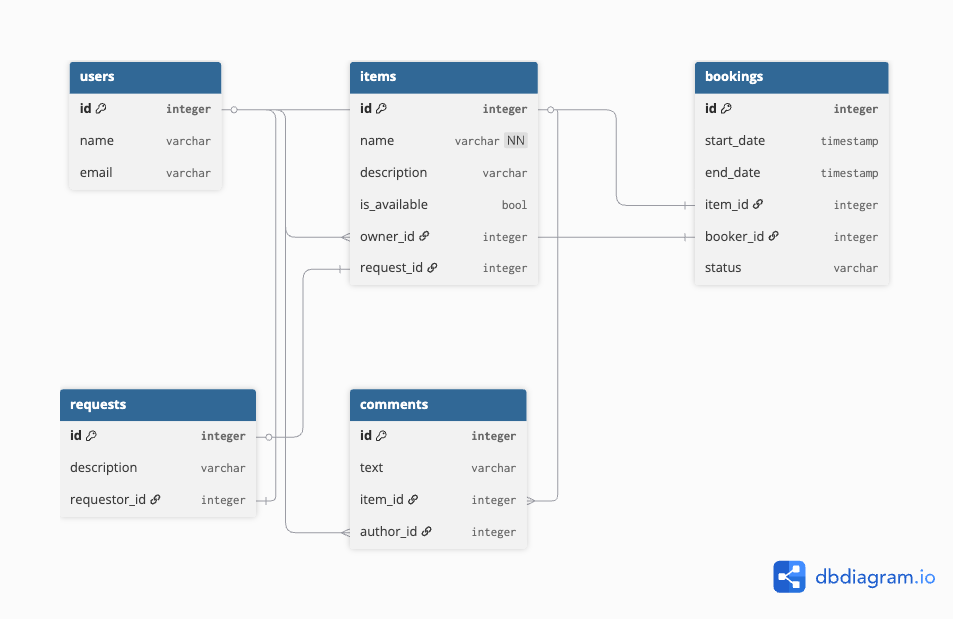
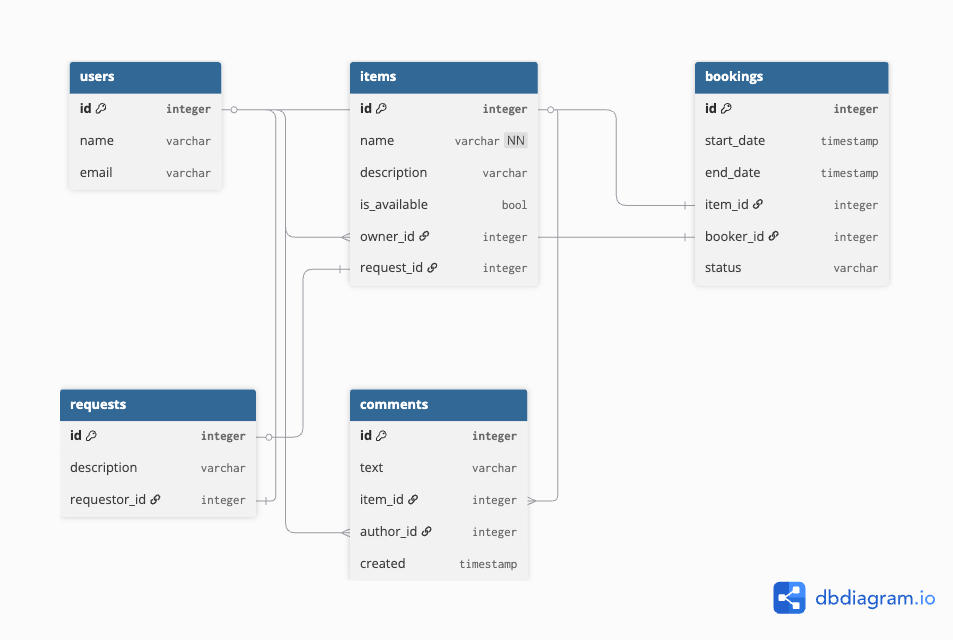
add-bookings Add comments

diff --git a/src/main/java/ru/practicum/shareit/item/service/ItemServiceImpl.java b/src/main/java/ru/practicum/shareit/item/service/ItemServiceImpl.java
@@ -3,15 +3,23 @@ package ru.practicum.shareit.item.service;
 import lombok.RequiredArgsConstructor;
 import org.springframework.beans.factory.annotation.Qualifier;
 import org.springframework.stereotype.Service;
+import ru.practicum.shareit.booking.model.Booking;
+import ru.practicum.shareit.booking.repository.BookingRepository;
 import ru.practicum.shareit.exception.NotFoundException;
 import ru.practicum.shareit.exception.ValidationException;
+import ru.practicum.shareit.item.dto.CommentDto;
+import ru.practicum.shareit.item.dto.ExtendedItemDto;
 import ru.practicum.shareit.item.dto.ItemDto;
+import ru.practicum.shareit.item.mapper.CommentMapper;
 import ru.practicum.shareit.item.mapper.ItemMapper;
+import ru.practicum.shareit.item.model.Comment;
 import ru.practicum.shareit.item.model.Item;
+import ru.practicum.shareit.item.repository.CommentRepository;
 import ru.practicum.shareit.item.repository.ItemRepository;
 import ru.practicum.shareit.user.model.User;
 import ru.practicum.shareit.user.repository.UserRepository;
 
+import java.time.LocalDateTime;
 import java.util.ArrayList;
 import java.util.Collection;
 import java.util.stream.Collectors;
@@ -22,10 +30,27 @@ import java.util.stream.Collectors;
 public class ItemServiceImpl implements ItemService {
     private final ItemRepository itemRepository;
     private final UserRepository userRepository;
+    private final CommentRepository commentRepository;
+    private final BookingRepository bookingRepository;
 
-    public ItemDto getItem(Integer id) {
+    public ExtendedItemDto getItem(Integer id) {
         Item item = itemRepository.findById(id).orElseThrow(() -> new NotFoundException("Item not found"));
-        return ItemMapper.mapToItemDto(item);
+        ExtendedItemDto itemDto = ItemMapper.mapToExtendedItemDto(item);
+
+        Collection<Booking> itemBookings = bookingRepository.getItemBookings(id);
+        LocalDateTime now = LocalDateTime.now();
+
+        Booking lastBooking = itemBookings.stream().filter(b -> b.getStart().isBefore(now)).findFirst().orElse(null);
+        Booking nextBooking = itemBookings.stream().filter(b -> b.getEnd().isAfter(now)).findFirst().orElse(null);
+
+        itemDto.setLastBooking(lastBooking);
+        itemDto.setNextBooking(nextBooking);
+
+        Collection<Comment> comments = commentRepository.getItemComments(id);
+
+        itemDto.setComments(comments.stream().map(CommentMapper::mapToCommentDto).toList());
+
+        return itemDto;
     }
 
     public ItemDto addItem(Integer userId, ItemDto itemDto) {
@@ -72,14 +97,29 @@ public class ItemServiceImpl implements ItemService {
         return ItemMapper.mapToItemDto(itemRepository.save(existingItem));
     }
 
-    public Collection<ItemDto> getItems(Integer userId) {
+    public Collection<ExtendedItemDto> getItems(Integer userId) {
         if (userId == null) {
             throw new IllegalArgumentException("Параметр userId не может быть null");
         }
 
         userRepository.findById(userId).orElseThrow(() -> new NotFoundException("User not found"));
 
-        return itemRepository.findAll().stream().map(ItemMapper::mapToItemDto).collect(Collectors.toList());
+        Collection<ExtendedItemDto> items = itemRepository.findAll().stream().map(ItemMapper::mapToExtendedItemDto).collect(Collectors.toList());
+
+        for (ExtendedItemDto itemDto : items) {
+            Integer itemId = itemDto.getId();
+
+            Collection<Booking> itemBookings = bookingRepository.getItemBookings(itemId);
+            LocalDateTime now = LocalDateTime.now();
+
+            Booking lastBooking = itemBookings.stream().filter(b -> b.getStart().isBefore(now)).findFirst().orElse(null);
+            Booking nextBooking = itemBookings.stream().filter(b -> b.getEnd().isAfter(now)).findFirst().orElse(null);
+
+            itemDto.setLastBooking(lastBooking);
+            itemDto.setNextBooking(nextBooking);
+        }
+
+        return items;
     }
 
     public Collection<ItemDto> searchItems(String text) {
@@ -89,5 +129,25 @@ public class ItemServiceImpl implements ItemService {
 
         return itemRepository.searchItems(text).stream().map(ItemMapper::mapToItemDto)
                 .filter(item -> (item.getName().toLowerCase().contains(text.toLowerCase()) || item.getDescription().toLowerCase().contains(text.toLowerCase())) && item.getAvailable()).collect(Collectors.toList());
+    }
+
+    public CommentDto addComment(Integer id, Integer userId, CommentDto commentDto) {
+        LocalDateTime now = LocalDateTime.now();
+
+        Item item = itemRepository.findById(id).orElseThrow(() -> new NotFoundException("Item not found"));
+        User author = userRepository.findById(userId).orElseThrow(() -> new NotFoundException("User not found"));
+        Collection<Booking> itemBookingsFromUser = bookingRepository.getItemBookings(item.getId()).stream().filter(booking -> booking.getBooker().getId() == userId && booking.getEnd().isBefore(now)).collect(Collectors.toList());
+
+        if (itemBookingsFromUser.isEmpty()) {
+            throw new ValidationException("Comment from not an item owner");
+        }
+
+        commentDto.setItem(item);
+        commentDto.setAuthor(author);
+        commentDto.setCreated(now);
+
+        Comment comment = commentRepository.save(CommentMapper.mapToComment(commentDto));
+
+        return CommentMapper.mapToCommentDto(comment);
     }
 }

diff --git a/src/main/java/ru/practicum/shareit/item/ItemController.java b/src/main/java/ru/practicum/shareit/item/ItemController.java
@@ -2,6 +2,8 @@ package ru.practicum.shareit.item;
 
 import lombok.RequiredArgsConstructor;
 import org.springframework.web.bind.annotation.*;
+import ru.practicum.shareit.item.dto.CommentDto;
+import ru.practicum.shareit.item.dto.ExtendedItemDto;
 import ru.practicum.shareit.item.dto.ItemDto;
 import ru.practicum.shareit.item.service.ItemService;
 import java.util.Collection;
@@ -16,7 +18,7 @@ public class ItemController {
     private final ItemService itemService;
 
     @GetMapping("/{id}")
-    public ItemDto getItem(@PathVariable Integer id) {
+    public ExtendedItemDto getItem(@PathVariable Integer id) {
         return itemService.getItem(id);
     }
 
@@ -31,12 +33,17 @@ public class ItemController {
     }
 
     @GetMapping
-    public Collection<ItemDto> getItems(@RequestHeader("X-Sharer-User-Id") Integer userId) {
+    public Collection<ExtendedItemDto> getItems(@RequestHeader("X-Sharer-User-Id") Integer userId) {
         return itemService.getItems(userId);
     }
 
     @GetMapping("/search")
     public Collection<ItemDto> searchItems(@RequestParam("text") String text) {
         return itemService.searchItems(text);
+    }
+
+    @PostMapping("/{id}/comment")
+    public CommentDto addComment(@PathVariable Integer id, @RequestHeader("X-Sharer-User-Id") Integer userId, @RequestBody CommentDto commentDto) {
+        return itemService.addComment(id, userId, commentDto);
     }
 }

diff --git a/src/main/java/ru/practicum/shareit/item/mapper/CommentMapper.java b/src/main/java/ru/practicum/shareit/item/mapper/CommentMapper.java
@@ -1,0 +1,31 @@
+package ru.practicum.shareit.item.mapper;
+
+import ru.practicum.shareit.item.dto.CommentDto;
+import ru.practicum.shareit.item.model.Comment;
+
+public class CommentMapper {
+    public static Comment mapToComment(CommentDto commentDto) {
+        Comment comment = new Comment();
+
+        comment.setId(commentDto.getId());
+        comment.setText(commentDto.getText());
+        comment.setAuthor(commentDto.getAuthor());
+        comment.setItem(commentDto.getItem());
+        comment.setCreated(commentDto.getCreated());
+
+        return comment;
+    }
+
+    public static CommentDto mapToCommentDto(Comment comment) {
+        CommentDto commentDto = new CommentDto();
+
+        commentDto.setId(comment.getId());
+        commentDto.setText(comment.getText());
+        commentDto.setAuthor(comment.getAuthor());
+        commentDto.setItem(comment.getItem());
+        commentDto.setCreated(comment.getCreated());
+        commentDto.setAuthorName(comment.getAuthor().getName());
+
+        return commentDto;
+    }
+}

diff --git a/src/main/java/ru/practicum/shareit/item/repository/ItemRepository.java b/src/main/java/ru/practicum/shareit/item/repository/ItemRepository.java
@@ -1,9 +1,12 @@
 package ru.practicum.shareit.item.repository;
 
 import org.springframework.data.jpa.repository.JpaRepository;
+import org.springframework.data.jpa.repository.Modifying;
 import org.springframework.data.jpa.repository.Query;
+
 import ru.practicum.shareit.item.model.Item;
 
+import java.time.LocalDateTime;
 import java.util.Collection;
 
 public interface ItemRepository  extends JpaRepository<Item, Integer> {
@@ -11,4 +14,8 @@ public interface ItemRepository  extends JpaRepository<Item, Integer> {
             "where upper(i.name) like upper(concat('%', ?1, '%')) " +
             " or upper(i.description) like upper(concat('%', ?1, '%'))")
     Collection<Item> searchItems(String text);
+
+    @Modifying
+    @Query(value = "insert into comments (text, item_id, author_id, created) values(?1, ?2, ?3, ?4)", nativeQuery = true)
+    void addComment(String text, int itemId, int authorId, LocalDateTime created);
 }

diff --git a/src/main/java/ru/practicum/shareit/item/mapper/ItemMapper.java b/src/main/java/ru/practicum/shareit/item/mapper/ItemMapper.java
@@ -1,5 +1,6 @@
 package ru.practicum.shareit.item.mapper;
 
+import ru.practicum.shareit.item.dto.ExtendedItemDto;
 import ru.practicum.shareit.item.dto.ItemDto;
 import ru.practicum.shareit.item.model.Item;
 
@@ -11,6 +12,19 @@ public class ItemMapper {
         itemDto.setDescription(item.getDescription());
         itemDto.setAvailable(item.getAvailable());
         itemDto.setOwner(item.getOwner());
+
+        return itemDto;
+    }
+
+    public static ExtendedItemDto mapToExtendedItemDto(Item item) {
+        ExtendedItemDto itemDto = new ExtendedItemDto();
+        itemDto.setId(item.getId());
+        itemDto.setName(item.getName());
+        itemDto.setDescription(item.getDescription());
+        itemDto.setAvailable(item.getAvailable());
+        itemDto.setOwner(item.getOwner());
+        itemDto.setLastBooking(null);
+        itemDto.setNextBooking(null);
 
         return itemDto;
     }

diff --git a/src/main/java/ru/practicum/shareit/item/service/ItemService.java b/src/main/java/ru/practicum/shareit/item/service/ItemService.java
@@ -1,17 +1,21 @@
 package ru.practicum.shareit.item.service;
 
+import ru.practicum.shareit.item.dto.CommentDto;
+import ru.practicum.shareit.item.dto.ExtendedItemDto;
 import ru.practicum.shareit.item.dto.ItemDto;
 
 import java.util.Collection;
 
 public interface ItemService {
-    ItemDto getItem(Integer id);
+    ExtendedItemDto getItem(Integer id);
 
     ItemDto addItem(Integer userId, ItemDto itemDto);
 
     ItemDto updateItem(Integer id, Integer userId, ItemDto itemDto);
 
-    Collection<ItemDto> getItems(Integer userId);
+    Collection<ExtendedItemDto> getItems(Integer userId);
 
     Collection<ItemDto> searchItems(String text);
+
+    CommentDto addComment(Integer id, Integer userId, CommentDto commentDto);
 }

diff --git a/src/main/java/ru/practicum/shareit/item/model/Comment.java b/src/main/java/ru/practicum/shareit/item/model/Comment.java
@@ -2,6 +2,8 @@ package ru.practicum.shareit.item.model;
 
 import jakarta.persistence.*;
 import lombok.Data;
+import ru.practicum.shareit.user.model.User;
+import java.time.LocalDateTime;
 
 @Data
 @Entity
@@ -12,8 +14,13 @@ public class Comment {
     Integer id;
     @Column(name = "text", nullable = false)
     String text;
-    @Column(name = "item_id", nullable = false)
-    Integer itemId;
-    @Column(name = "author_id", nullable = false)
-    Integer authorId;
+    @Column(name = "created", nullable = false)
+    LocalDateTime created;
+    @ManyToOne
+    @JoinColumn(name = "item_id")
+    Item item;
+    @ManyToOne
+    @JoinColumn(name = "author_id")
+    User author;
+
 }

diff --git a/src/main/java/ru/practicum/shareit/booking/repository/BookingRepository.java b/src/main/java/ru/practicum/shareit/booking/repository/BookingRepository.java
@@ -6,8 +6,11 @@ import ru.practicum.shareit.booking.model.Booking;
 import java.util.Collection;
 
 public interface BookingRepository extends JpaRepository<Booking, Integer> {
-    @Query("select i from Item i where i.owner.id = ?1")
+    @Query("select b from Booking b where b.booker.id = ?1")
     Collection<Booking> getUserBookings(Integer userId);
+
+    @Query("select b from Booking b where b.item.id = ?1 order by b.start asc")
+    Collection<Booking> getItemBookings(Integer itemId);
 
     @Query(value = """
         select * from bookings where item_id IN (

diff --git a/src/main/java/ru/practicum/shareit/item/repository/CommentRepository.java b/src/main/java/ru/practicum/shareit/item/repository/CommentRepository.java
@@ -1,0 +1,12 @@
+package ru.practicum.shareit.item.repository;
+
+import org.springframework.data.jpa.repository.JpaRepository;
+import org.springframework.data.jpa.repository.Query;
+import ru.practicum.shareit.item.model.Comment;
+
+import java.util.Collection;
+
+public interface CommentRepository  extends JpaRepository<Comment, Integer> {
+    @Query("select c from Comment c where c.item.id = ?1")
+    Collection<Comment> getItemComments(int itemId);
+}

diff --git a/src/main/java/ru/practicum/shareit/item/dto/ExtendedItemDto.java b/src/main/java/ru/practicum/shareit/item/dto/ExtendedItemDto.java
@@ -1,8 +1,16 @@
 package ru.practicum.shareit.item.dto;
 
-import java.time.LocalDateTime;
+import lombok.Data;
+import ru.practicum.shareit.booking.model.Booking;
 
+import java.time.LocalDateTime;
+import java.util.Collection;
+
+@Data
 public class ExtendedItemDto extends ItemDto {
     LocalDateTime start;
     LocalDateTime end;
+    Booking lastBooking;
+    Booking nextBooking;
+    Collection<CommentDto> comments;
 }

diff --git a/src/main/java/ru/practicum/shareit/item/dto/CommentDto.java b/src/main/java/ru/practicum/shareit/item/dto/CommentDto.java
@@ -1,0 +1,17 @@
+package ru.practicum.shareit.item.dto;
+
+import lombok.Data;
+import ru.practicum.shareit.item.model.Item;
+import ru.practicum.shareit.user.model.User;
+
+import java.time.LocalDateTime;
+
+@Data
+public class CommentDto {
+    Integer id;
+    String text;
+    LocalDateTime created;
+    Item item;
+    String authorName;
+    User author;
+}

diff --git a/src/main/java/ru/practicum/shareit/booking/service/BookingServiceImpl.java b/src/main/java/ru/practicum/shareit/booking/service/BookingServiceImpl.java
@@ -19,7 +19,6 @@ import ru.practicum.shareit.user.repository.UserRepository;
 
 import java.time.LocalDateTime;
 import java.util.Collection;
-import java.util.Objects;
 import java.util.stream.Collectors;
 
 @Service
